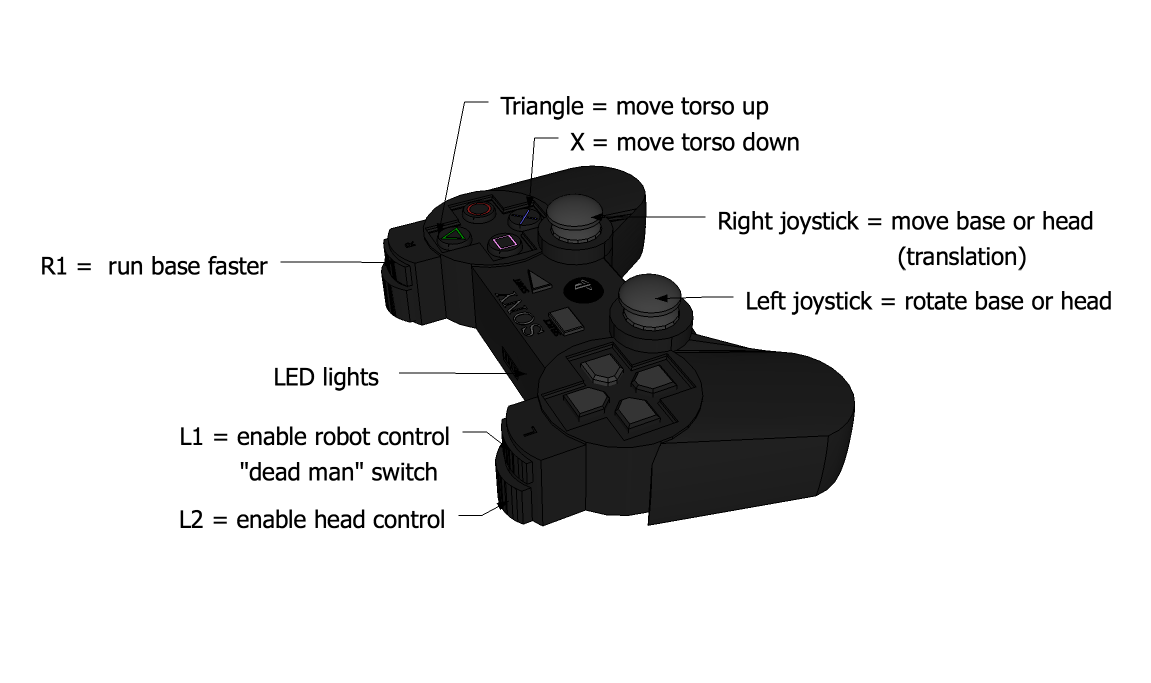
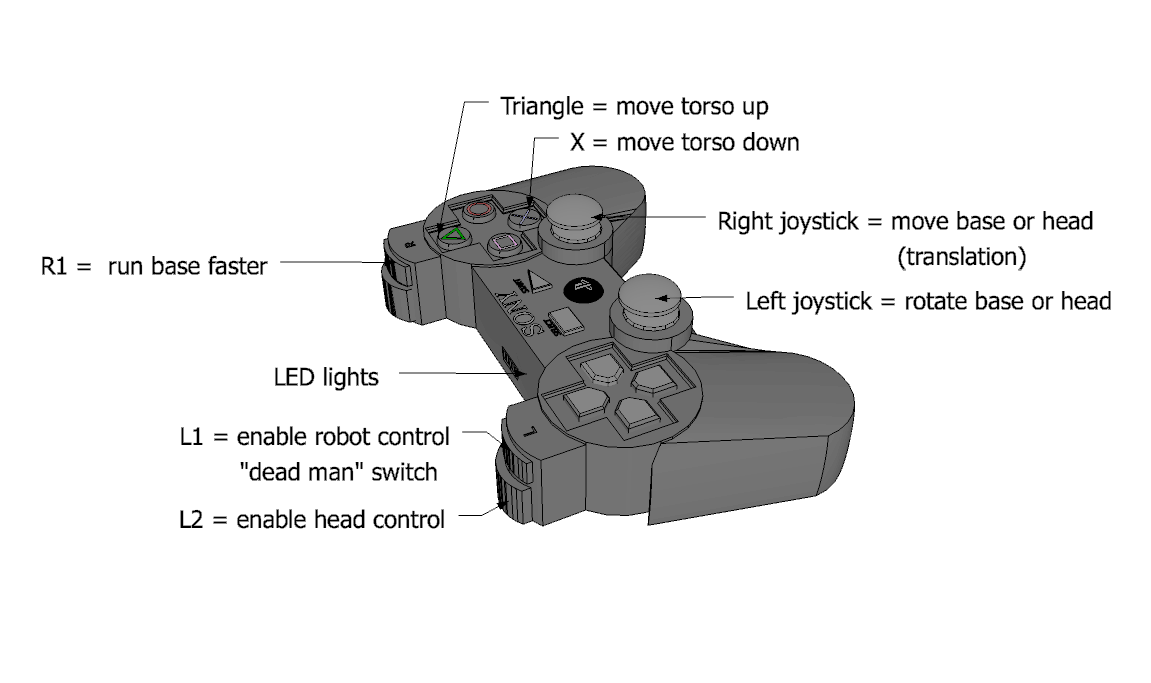
This is my first attempt at clarifying the ps3joystick controls

diff --git a/pr2_manual/5_pr2_software.tex b/pr2_manual/5_pr2_software.tex
@@ -308,22 +308,27 @@ joystick to pair it with the robot. Be sure to unplug the robot from wall outlet
 \caption{Pairing the joystick with the PR2.}
 \label{fig:ps3_pairing}
 \end{figure}
-Then to control the robot, use L1 (Figure~\ref{fig:buttons}) as the deadman.
-No commands are sent without the deadman engaged.
-While pressing L1, use the other buttons for the following movements:
+Then to control the robot, use L1 (Figure~\ref{fig:buttons}) as the ``deadman'' switch. L1 should be held down with your left pointer finger (like a trigger) whenever you wish to control the robot. If you let go of the L1 button, then commands will no longer be sent from the controller to the robot. While pressing L1, use the other buttons for the following movements:
 \begin{figure}[H]
 \centering
-\includegraphics[scale=0.75]{ps3joy_buttons.png}
-\caption{The PS3 buttons.}
+\includegraphics[scale=0.3]{ps3diagram.png}
+\caption{The PS3 controller mapped to robot movements.}
 \label{fig:buttons}
 \end{figure}
 \begin{enumerate}
-\item Right stick: translate the base
-\item Left stick: Yaw (rotate) the base
-\item "L2": The "head button" allows the sticks to control the head instead of the base.
-\item "R1" : Run button commands the base faster
-\item "Triangle", "X": Move the torso up and down 
+\item L1 (left pointer finger): The ``dead man'' switch allows the controller to send commands to the robot
+\item L2 (right pointer finger): The head switch allows the joysticks to control the head instead of the base
+\item Right joystick (right thumb): Translates the base or head (i.e., front, back, left, right)
+\item Left joystick (left thumb): Rotates the base or head (i.e., spin clockwise or counter-clockwise)
+\item R1 (left pointer finger): The ``run'' switch commands the base to move faster
+\item Triangle and X (right thumb): Moves the torso up and down 
 \end{enumerate}
+
+To drive the robot around (i.e., driving the base), hold down L1 and use the two joysticks to control its direction of movement (right joystick) and rotation (left joystick). To drive the robot around at faster speeds, also hold down R1.
+
+To move the robot head, hold down L1 and use the two joysticks to control the head movements.
+
+To move the robot torso, hold down L1 and press the triangle button to move the torso up or the X button to move the torso down. The torso moves slowy.
 
 For more information about how to drive the robot around, see the 
 \href{http://www.ros.org/wiki/ps3joy/Tutorials/UsingJoystickWithPR2}{ps3joy} tutorial at \href{http://www.ros.org}{ros.org}. 
